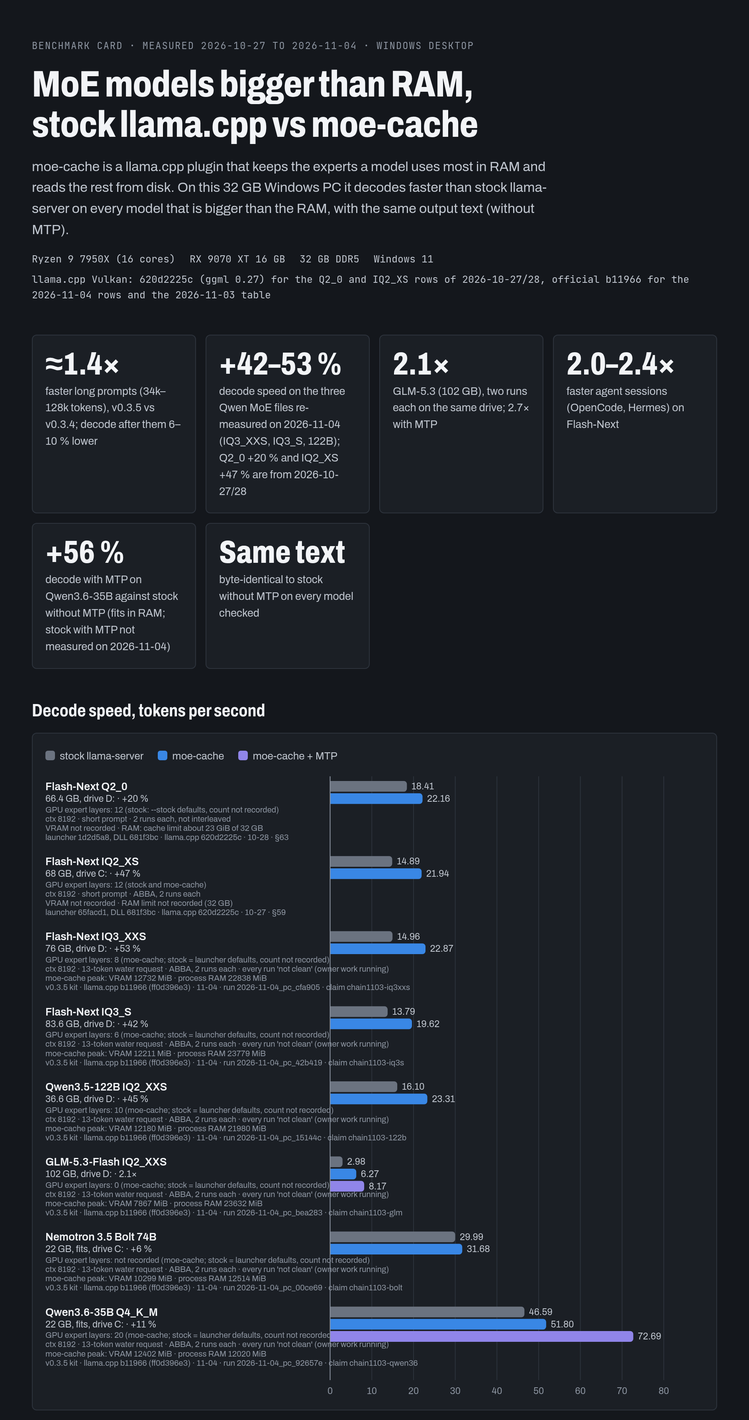
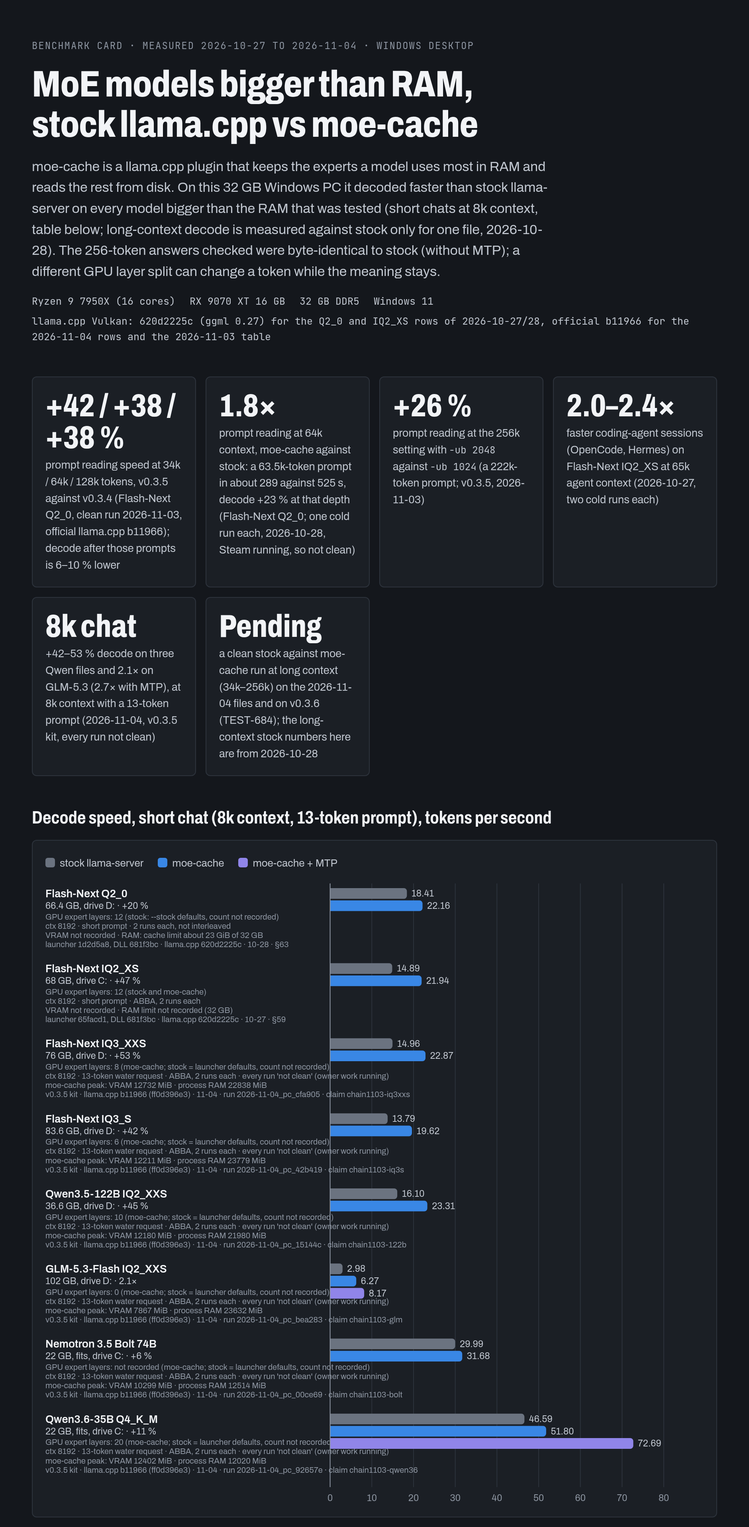
WINDOWS-688: --ram is a sizing hint, not a RAM cap (README, WINDOWS.md, CONFIGURATION.md, --ram help, mc_common.inl comment); PREFILL-172: GPU_CATCH is Vulkan only; card: context and prompt length on every decode row, long-context headline tiles, 8k chat labelled, clean long-context run pending (TES

diff --git a/docs/benchmark_card.html b/docs/benchmark_card.html
@@ -72,7 +72,7 @@ footer { color: var(--ink-3); font-size: 13px; border-top: 1px solid var(--rule)
   <header>
     <div class="eyebrow">Benchmark card · measured 2026-10-27 to 2026-11-04 · Windows desktop</div>
     <h1>MoE models bigger than RAM, stock llama.cpp vs moe-cache</h1>
-    <p class="lede">moe-cache is a llama.cpp plugin that keeps the experts a model uses most in RAM and reads the rest from disk. On this 32 GB Windows PC it decodes faster than stock llama-server on every model that is bigger than the RAM, with the same output text (without MTP).</p>
+    <p class="lede">moe-cache is a llama.cpp plugin that keeps the experts a model uses most in RAM and reads the rest from disk. On this 32 GB Windows PC it decoded faster than stock llama-server on every model bigger than the RAM that was tested (short chats at 8k context, table below; long-context decode is measured against stock only for one file, 2026-10-28). The 256-token answers checked were byte-identical to stock (without MTP); a different GPU layer split can change a token while the meaning stays.</p>
     <div class="machine">
       <span>Ryzen 9 7950X (16 cores)</span><span>RX 9070 XT 16 GB</span><span>32 GB DDR5</span><span>Windows 11</span><span>llama.cpp Vulkan: 620d2225c (ggml 0.27) for the Q2_0 and IQ2_XS rows of 2026-10-27/28, official b11966 for the 2026-11-04 rows and the 2026-11-03 table</span>
     </div>
@@ -80,17 +80,17 @@ footer { color: var(--ink-3); font-size: 13px; border-top: 1px solid var(--rule)
 
   <section aria-label="Headline numbers">
     <div class="tiles">
-      <div class="tile"><b>≈1.4×</b><span>faster long prompts (34k–128k tokens), v0.3.5 vs v0.3.4; decode after them 6–10 % lower</span></div>
-      <div class="tile"><b>+42–53 %</b><span>decode speed on the three Qwen MoE files re-measured on 2026-11-04 (IQ3_XXS, IQ3_S, 122B); Q2_0 +20 % and IQ2_XS +47 % are from 2026-10-27/28 <!-- claim:chain1103-iq3xxs --><!-- claim:chain1103-iq3s --><!-- claim:chain1103-122b --></span></div>
-      <div class="tile"><b>2.1×</b><span>GLM-5.3 (102 GB), two runs each on the same drive; 2.7× with MTP <!-- claim:chain1103-glm --></span></div>
-      <div class="tile"><b>2.0–2.4×</b><span>faster agent sessions (OpenCode, Hermes) on Flash-Next</span></div>
-      <div class="tile"><b>+56 %</b><span>decode with MTP on Qwen3.6-35B against stock without MTP (fits in RAM; stock with MTP not measured on 2026-11-04) <!-- claim:chain1103-qwen36 --></span></div>
-      <div class="tile"><b>Same text</b><span>byte-identical to stock without MTP on every model checked</span></div>
+      <div class="tile"><b>+42 / +38 / +38 %</b><span>prompt reading speed at 34k / 64k / 128k tokens, v0.3.5 against v0.3.4 (Flash-Next Q2_0, clean run 2026-11-03, official llama.cpp b11966); decode after those prompts is 6–10 % lower <!-- claim:v035-vs-v034-34k --><!-- claim:v035-vs-v034-64k --><!-- claim:v035-vs-v034-128k --></span></div>
+      <div class="tile"><b>1.8×</b><span>prompt reading at 64k context, moe-cache against stock: a 63.5k-token prompt in about 289 against 525 s, decode +23 % at that depth (Flash-Next Q2_0; one cold run each, 2026-10-28, Steam running, so not clean)</span></div>
+      <div class="tile"><b>+26 %</b><span>prompt reading at the 256k setting with <code>-ub 2048</code> against <code>-ub 1024</code> (a 222k-token prompt; v0.3.5, 2026-11-03) <!-- claim:v035-ub2048-256k --></span></div>
+      <div class="tile"><b>2.0–2.4×</b><span>faster coding-agent sessions (OpenCode, Hermes) on Flash-Next IQ2_XS at 65k agent context (2026-10-27, two cold runs each)</span></div>
+      <div class="tile"><b>8k chat</b><span>+42–53 % decode on three Qwen files and 2.1× on GLM-5.3 (2.7× with MTP), at 8k context with a 13-token prompt (2026-11-04, v0.3.5 kit, every run not clean) <!-- claim:chain1103-iq3xxs --><!-- claim:chain1103-iq3s --><!-- claim:chain1103-122b --><!-- claim:chain1103-glm --></span></div>
+      <div class="tile"><b>Pending</b><span>a clean stock against moe-cache run at long context (34k–256k) on the 2026-11-04 files and on v0.3.6 (TEST-684); the long-context stock numbers here are from 2026-10-28</span></div>
     </div>
   </section>
 
   <section>
-    <h2>Decode speed, tokens per second</h2>
+    <h2>Decode speed, short chat (8k context, 13-token prompt), tokens per second</h2>
     <div class="chart" id="chart">
       <div class="legend">
         <span><i style="background:var(--stock)"></i>stock llama-server</span>
@@ -102,18 +102,18 @@ footer { color: var(--ink-3); font-size: 13px; border-top: 1px solid var(--rule)
     </div>
     <div class="scroll">
       <table>
-        <thead><tr><th>Model (file size)</th><th class="n">GPU expert layers</th><th class="n">stock</th><th class="n">moe-cache</th><th class="n">change</th></tr></thead>
+        <thead><tr><th>Model (file size)</th><th>Context, prompt</th><th class="n">GPU expert layers</th><th class="n">stock</th><th class="n">moe-cache</th><th class="n">change</th></tr></thead>
         <tbody>
-          <tr><td><b>Flash-Next Q2_0</b> (the faster file)<span class="sub">66.4 GB, drive D:, two runs each, not interleaved; stock = launcher <code>--stock</code> defaults</span></td><td class="n">12 (moe-cache)</td><td class="n">18.41</td><td class="n">22.16</td><td class="n up">+20 %</td></tr>
-          <tr><td>Qwen3-Next “Flash-Next” IQ2_XS<span class="sub">68 GB, drive C:</span></td><td class="n">12</td><td class="n">14.89</td><td class="n">21.94</td><td class="n up">+47 %</td></tr>
-          <tr><td>Flash-Next IQ3_XXS<span class="sub">76 GB, drive D:, 2026-11-04, v0.3.5 kit, two runs each (replaces 15.14 vs 19.86 of 2026-10-27)</span></td><td class="n">8</td><td class="n">14.96</td><td class="n">22.87</td><td class="n up">+53 %</td></tr><!-- claim:chain1103-iq3xxs -->
-          <tr><td>Flash-Next IQ3_S<span class="sub">83.6 GB, drive D:, 2026-11-04 (replaces 12.92 vs 17.28 of 2026-10-27)</span></td><td class="n">6</td><td class="n">13.79</td><td class="n">19.62</td><td class="n up">+42 %</td></tr><!-- claim:chain1103-iq3s -->
-          <tr><td>Qwen3.5-122B UD-IQ2_XXS<span class="sub">36.6 GB, drive D:, 2026-11-04 (replaces 15.95 vs 19.73 of 2026-10-28)</span></td><td class="n">10</td><td class="n">16.10</td><td class="n">23.31</td><td class="n up">+45 %</td></tr><!-- claim:chain1103-122b -->
-          <tr><td>GLM-5.3-Flash UD-IQ2_XXS<span class="sub">102 GB, drive D:, two runs each, ABBA, 2026-11-04 (replaces the single pair 2.21 vs 4.44 of 2026-10-27)</span></td><td class="n">0</td><td class="n">2.98</td><td class="n">6.27</td><td class="n up">2.1×</td></tr><!-- claim:chain1103-glm -->
-          <tr><td>GLM-5.3-Flash, moe-cache with <code>--mtp</code><span class="sub">two runs; stock without MTP is the other side (replaces the single run 6.92)</span></td><td class="n">0</td><td class="n">2.98</td><td class="n">8.17</td><td class="n up">2.7×</td></tr><!-- claim:chain1103-glm -->
-          <tr><td>Nemotron 3.5 Bolt 74B-A9B<span class="sub">22.0 GB, drive C:, <b>fits in RAM</b>: the launcher runs stock for it; moe-cache forced here to compare (two runs each, 2026-11-04; the single runs of 2026-10-28 gave −18 %)</span></td><td class="n">–</td><td class="n">29.99</td><td class="n">31.68</td><td class="n up">+6 %</td></tr><!-- claim:chain1103-bolt -->
-          <tr><td>Qwen3.6-35B-A3B Q4_K_M<span class="sub">22 GB, drive C:, <b>fits in RAM</b>: the launcher runs stock for it; moe-cache forced (two runs each, 2026-11-04; 2026-10-27 gave −1 %)</span></td><td class="n">–</td><td class="n">46.59</td><td class="n">51.80</td><td class="n up">+11 %</td></tr><!-- claim:chain1103-qwen36 -->
-          <tr><td>Qwen3.6-35B, moe-cache with MTP<span class="sub">against stock without MTP; stock with MTP was not measured on 2026-11-04 (68.6 on 2026-10-27)</span></td><td class="n">–</td><td class="n">46.59</td><td class="n">72.69</td><td class="n up">+56 %</td></tr><!-- claim:chain1103-qwen36 -->
+          <tr><td><b>Flash-Next Q2_0</b> (the faster file)<span class="sub">66.4 GB, drive D:, two runs each, not interleaved; stock = launcher <code>--stock</code> defaults</span></td><td>8192, short prompt (length not recorded)</td><td class="n">12 (moe-cache)</td><td class="n">18.41</td><td class="n">22.16</td><td class="n up">+20 %</td></tr>
+          <tr><td>Qwen3-Next “Flash-Next” IQ2_XS<span class="sub">68 GB, drive C:</span></td><td>8192, short prompt (length not recorded)</td><td class="n">12</td><td class="n">14.89</td><td class="n">21.94</td><td class="n up">+47 %</td></tr>
+          <tr><td>Flash-Next IQ3_XXS<span class="sub">76 GB, drive D:, 2026-11-04, v0.3.5 kit, two runs each (replaces 15.14 vs 19.86 of 2026-10-27)</span></td><td>8192, 13 tokens</td><td class="n">8</td><td class="n">14.96</td><td class="n">22.87</td><td class="n up">+53 %</td></tr><!-- claim:chain1103-iq3xxs -->
+          <tr><td>Flash-Next IQ3_S<span class="sub">83.6 GB, drive D:, 2026-11-04 (replaces 12.92 vs 17.28 of 2026-10-27)</span></td><td>8192, 13 tokens</td><td class="n">6</td><td class="n">13.79</td><td class="n">19.62</td><td class="n up">+42 %</td></tr><!-- claim:chain1103-iq3s -->
+          <tr><td>Qwen3.5-122B UD-IQ2_XXS<span class="sub">36.6 GB, drive D:, 2026-11-04 (replaces 15.95 vs 19.73 of 2026-10-28)</span></td><td>8192, 13 tokens</td><td class="n">10</td><td class="n">16.10</td><td class="n">23.31</td><td class="n up">+45 %</td></tr><!-- claim:chain1103-122b -->
+          <tr><td>GLM-5.3-Flash UD-IQ2_XXS<span class="sub">102 GB, drive D:, two runs each, ABBA, 2026-11-04 (replaces the single pair 2.21 vs 4.44 of 2026-10-27)</span></td><td>8192, 13 tokens</td><td class="n">0</td><td class="n">2.98</td><td class="n">6.27</td><td class="n up">2.1×</td></tr><!-- claim:chain1103-glm -->
+          <tr><td>GLM-5.3-Flash, moe-cache with <code>--mtp</code><span class="sub">two runs; stock without MTP is the other side (replaces the single run 6.92)</span></td><td>8192, 13 tokens</td><td class="n">0</td><td class="n">2.98</td><td class="n">8.17</td><td class="n up">2.7×</td></tr><!-- claim:chain1103-glm -->
+          <tr><td>Nemotron 3.5 Bolt 74B-A9B<span class="sub">22.0 GB, drive C:, <b>fits in RAM</b>: the launcher runs stock for it; moe-cache forced here to compare (two runs each, 2026-11-04; the single runs of 2026-10-28 gave −18 %)</span></td><td>8192, 13 tokens</td><td class="n">–</td><td class="n">29.99</td><td class="n">31.68</td><td class="n up">+6 %</td></tr><!-- claim:chain1103-bolt -->
+          <tr><td>Qwen3.6-35B-A3B Q4_K_M<span class="sub">22 GB, drive C:, <b>fits in RAM</b>: the launcher runs stock for it; moe-cache forced (two runs each, 2026-11-04; 2026-10-27 gave −1 %)</span></td><td>8192, 13 tokens</td><td class="n">–</td><td class="n">46.59</td><td class="n">51.80</td><td class="n up">+11 %</td></tr><!-- claim:chain1103-qwen36 -->
+          <tr><td>Qwen3.6-35B, moe-cache with MTP<span class="sub">against stock without MTP; stock with MTP was not measured on 2026-11-04 (68.6 on 2026-10-27)</span></td><td>8192, 13 tokens</td><td class="n">–</td><td class="n">46.59</td><td class="n">72.69</td><td class="n up">+56 %</td></tr><!-- claim:chain1103-qwen36 -->
         </tbody>
       </table>
     </div>

diff --git a/bin/moe_cache.py b/bin/moe_cache.py
@@ -1886,9 +1886,10 @@ SERVER_HELP = """\
            lines say which of these were applied. Smoother PC, slower model. MOE_CACHE_LEAVE_ROOM=1 turns it on for good
 --gpu-margin GiB  VRAM the tuner leaves free next to everything it places (default about 0.47 GiB = 0.5 GB; raise it if the GPU runs out of memory with a large -ub)
 --ub auto|N  micro-batch size (prompt speed: 512 -> 2048 was +58 % at a 6k prompt). auto = the largest that fits next to the KV cache of --ctx
---ram GB   memory the server may use (default: the cgroup limit or free RAM). The cache sizes itself to stay below it. On Windows it is also set as a
-           job memory limit on llama-server only with MOE_CACHE_WIN_VIEW=0 (with the default file-view cache the experts use no commit and a job limit
-           would only cap llama.cpp's GPU memory, which Windows commits)
+--ram GB   memory the cache and the layer plan are sized to (default: the cgroup limit or free RAM). A sizing hint, NOT a RAM cap: the launcher sets no
+           limit on Linux (only a cgroup you set yourself is a hard limit). On Windows a job memory limit is set only for the plugin, only with --ram and
+           only with MOE_CACHE_WIN_VIEW=0; the default file-view cache, the on-demand listener and stock llama-server get none (a job limit counts GPU
+           memory too and broke Vulkan), so the server can use more RAM than --ram says
 --max-ram GB  hard cap on the whole server's memory (default: physical RAM minus max(4 GiB, 12.5 %), = 28 GiB on a 32 GiB machine; 0 = none).
            Same rule on Linux and Windows; --ram and the free-memory logic stay below it (MOE_CACHE_MAX_RAM_GB does the same)
            The cap is kept by planning (cache budget, layer plan), never by stopping a running server (owner's rule)

diff --git a/README.md b/README.md
@@ -15,7 +15,7 @@ A plugin for an unmodified <code>llama-server</code>. No fork, no patch.</p>
 
 ## What it is
 
-**moe-cache lets a normal PC run big Mixture-of-Experts AI models** (files of 60-120 GB) that are bigger than its RAM, with the **same answers as plain llama.cpp**: token-identical below 128k context with the same layer split; from 128k context a q8_0 KV cache is used (`--exact` keeps f16), MTP and the `--fast` modes can change answers; see [EXACTNESS](docs/EXACTNESS.md). Chat in your browser, or connect coding tools (OpenCode, Hermes, Claude Code). Windows 11 and Linux. Free (MIT), no account.
+**moe-cache lets a normal PC run big Mixture-of-Experts AI models** (files of 60-120 GB) that are bigger than its RAM, with the **same answers as plain llama.cpp** in the checks we ran (greedy decoding, the same GPU/CPU layer split, same llama.cpp build, context below 128k; the exact list is in [EXACTNESS](docs/EXACTNESS.md)). A different GPU layer split, or experts computed on the GPU instead of the CPU, can change a token (slightly different floating-point sums) while the meaning stays; from 128k context a q8_0 KV cache is used (`--exact` keeps f16), and MTP and the `--fast` modes can change answers. Chat in your browser, or connect coding tools (OpenCode, Hermes, Claude Code). Windows 11 and Linux. Free (MIT), no account.
 
 MoE models (Qwen3, GLM, gpt-oss, DeepSeek) use only a few "experts" per token. When the file is bigger than your RAM, plain llama.cpp keeps reading the whole file from the disk and slows to a crawl; moe-cache keeps the experts the model actually uses in RAM and reads only the rest. If your model already fits in RAM, plain llama.cpp is as fast or faster, and moe-cache steps aside on its own ([when to use something else](docs/FAQ.md#when-to-use-something-else)).
 
@@ -119,7 +119,7 @@ The card below is the Windows desktop (Ryzen 9 7950X, RX 9070 XT 16 GB, 32 GB RA
 
 **Benchmark card · measured 2026-10-27 to 2026-11-04 · Windows desktop**
 
-moe-cache is a llama.cpp plugin that keeps the experts a model uses most in RAM and reads the rest from disk. On this 32 GB Windows PC it decodes faster than stock llama-server on every model that is bigger than the RAM, with the same output text (without MTP).
+moe-cache is a llama.cpp plugin that keeps the experts a model uses most in RAM and reads the rest from disk. On this 32 GB Windows PC it decoded faster than stock llama-server on every model bigger than the RAM that was tested (short chats at 8k context, table below; long-context decode is measured against stock only for one file, 2026-10-28). The 256-token answers checked were byte-identical to stock (without MTP); a different GPU layer split can change a token while the meaning stays.
 
 | Machine | |
 |---|---|
@@ -131,27 +131,27 @@ moe-cache is a llama.cpp plugin that keeps the experts a model uses most in RAM 
 
 | Headline | What it is |
 |---|---|
-| ≈1.4× | faster long prompts (34k–128k tokens), v0.3.5 vs v0.3.4; decode after them 6–10 % lower |
-| +42–53 % | decode speed on the three Qwen MoE files re-measured on 2026-11-04 (IQ3_XXS, IQ3_S, 122B); Q2_0 +20 % and IQ2_XS +47 % are from 2026-10-27/28 <!-- claim:chain1103-iq3xxs --><!-- claim:chain1103-iq3s --><!-- claim:chain1103-122b --> |
-| 2.1× | GLM-5.3 (102 GB), two runs each on the same drive; 2.7× with MTP <!-- claim:chain1103-glm --> |
-| 2.0–2.4× | faster agent sessions (OpenCode, Hermes) on Flash-Next |
-| +56 % | decode with MTP on Qwen3.6-35B against stock without MTP (fits in RAM; stock with MTP not measured on 2026-11-04) <!-- claim:chain1103-qwen36 --> |
-| Same text | byte-identical to stock without MTP on every model checked |
+| +42 / +38 / +38 % | prompt reading speed at 34k / 64k / 128k tokens, v0.3.5 against v0.3.4 (Flash-Next Q2_0, clean run 2026-11-03, official llama.cpp b11966); decode after those prompts is 6–10 % lower <!-- claim:v035-vs-v034-34k --><!-- claim:v035-vs-v034-64k --><!-- claim:v035-vs-v034-128k --> |
+| 1.8× | prompt reading at 64k context, moe-cache against stock: a 63.5k-token prompt in about 289 against 525 s, decode +23 % at that depth (Flash-Next Q2_0; one cold run each, 2026-10-28, Steam running, so not clean) |
+| +26 % | prompt reading at the 256k setting with `-ub 2048` against `-ub 1024` (a 222k-token prompt; v0.3.5, 2026-11-03) <!-- claim:v035-ub2048-256k --> |
+| 2.0–2.4× | faster coding-agent sessions (OpenCode, Hermes) on Flash-Next IQ2_XS at 65k agent context (2026-10-27, two cold runs each) |
+| 8k chat | +42–53 % decode on three Qwen files and 2.1× on GLM-5.3 (2.7× with MTP), at 8k context with a 13-token prompt (2026-11-04, v0.3.5 kit, every run not clean) <!-- claim:chain1103-iq3xxs --><!-- claim:chain1103-iq3s --><!-- claim:chain1103-122b --><!-- claim:chain1103-glm --> |
+| Pending | a clean stock against moe-cache run at long context (34k–256k) on the 2026-11-04 files and on v0.3.6 (TEST-684); the long-context stock numbers here are from 2026-10-28 |
 
-### Decode speed, tokens per second
+### Decode speed, short chat (8k context, 13-token prompt), tokens per second
 
-| Model (file size) | GPU expert layers | stock | moe-cache | change |
-|---|---|---|---|---|
-| **Flash-Next Q2_0** (the faster file)<br><sub>66.4 GB, drive D:, two runs each, not interleaved; stock = launcher `--stock` defaults</sub> | 12 (moe-cache) | 18.41 | 22.16 | +20 % |
-| Qwen3-Next “Flash-Next” IQ2_XS<br><sub>68 GB, drive C:</sub> | 12 | 14.89 | 21.94 | +47 % |
-| Flash-Next IQ3_XXS<br><sub>76 GB, drive D:, 2026-11-04, v0.3.5 kit, two runs each (replaces 15.14 vs 19.86 of 2026-10-27)</sub> | 8 | 14.96 | 22.87 | +53 % <!-- claim:chain1103-iq3xxs --> |
-| Flash-Next IQ3_S<br><sub>83.6 GB, drive D:, 2026-11-04 (replaces 12.92 vs 17.28 of 2026-10-27)</sub> | 6 | 13.79 | 19.62 | +42 % <!-- claim:chain1103-iq3s --> |
-| Qwen3.5-122B UD-IQ2_XXS<br><sub>36.6 GB, drive D:, 2026-11-04 (replaces 15.95 vs 19.73 of 2026-10-28)</sub> | 10 | 16.10 | 23.31 | +45 % <!-- claim:chain1103-122b --> |
-| GLM-5.3-Flash UD-IQ2_XXS<br><sub>102 GB, drive D:, two runs each, ABBA, 2026-11-04 (replaces the single pair 2.21 vs 4.44 of 2026-10-27)</sub> | 0 | 2.98 | 6.27 | 2.1× <!-- claim:chain1103-glm --> |
-| GLM-5.3-Flash, moe-cache with `--mtp`<br><sub>two runs; stock without MTP is the other side (replaces the single run 6.92)</sub> | 0 | 2.98 | 8.17 | 2.7× <!-- claim:chain1103-glm --> |
-| Nemotron 3.5 Bolt 74B-A9B<br><sub>22.0 GB, drive C:, **fits in RAM**: the launcher runs stock for it; moe-cache forced here to compare (two runs each, 2026-11-04; the single runs of 2026-10-28 gave −18 %)</sub> | – | 29.99 | 31.68 | +6 % <!-- claim:chain1103-bolt --> |
-| Qwen3.6-35B-A3B Q4_K_M<br><sub>22 GB, drive C:, **fits in RAM**: the launcher runs stock for it; moe-cache forced (two runs each, 2026-11-04; 2026-10-27 gave −1 %)</sub> | – | 46.59 | 51.80 | +11 % <!-- claim:chain1103-qwen36 --> |
-| Qwen3.6-35B, moe-cache with MTP<br><sub>against stock without MTP; stock with MTP was not measured on 2026-11-04 (68.6 on 2026-10-27)</sub> | – | 46.59 | 72.69 | +56 % <!-- claim:chain1103-qwen36 --> |
+| Model (file size) | Context, prompt | GPU expert layers | stock | moe-cache | change |
+|---|---|---|---|---|---|
+| **Flash-Next Q2_0** (the faster file)<br><sub>66.4 GB, drive D:, two runs each, not interleaved; stock = launcher `--stock` defaults</sub> | 8192, short prompt (length not recorded) | 12 (moe-cache) | 18.41 | 22.16 | +20 % |
+| Qwen3-Next “Flash-Next” IQ2_XS<br><sub>68 GB, drive C:</sub> | 8192, short prompt (length not recorded) | 12 | 14.89 | 21.94 | +47 % |
+| Flash-Next IQ3_XXS<br><sub>76 GB, drive D:, 2026-11-04, v0.3.5 kit, two runs each (replaces 15.14 vs 19.86 of 2026-10-27)</sub> | 8192, 13 tokens | 8 | 14.96 | 22.87 | +53 % <!-- claim:chain1103-iq3xxs --> |
+| Flash-Next IQ3_S<br><sub>83.6 GB, drive D:, 2026-11-04 (replaces 12.92 vs 17.28 of 2026-10-27)</sub> | 8192, 13 tokens | 6 | 13.79 | 19.62 | +42 % <!-- claim:chain1103-iq3s --> |
+| Qwen3.5-122B UD-IQ2_XXS<br><sub>36.6 GB, drive D:, 2026-11-04 (replaces 15.95 vs 19.73 of 2026-10-28)</sub> | 8192, 13 tokens | 10 | 16.10 | 23.31 | +45 % <!-- claim:chain1103-122b --> |
+| GLM-5.3-Flash UD-IQ2_XXS<br><sub>102 GB, drive D:, two runs each, ABBA, 2026-11-04 (replaces the single pair 2.21 vs 4.44 of 2026-10-27)</sub> | 8192, 13 tokens | 0 | 2.98 | 6.27 | 2.1× <!-- claim:chain1103-glm --> |
+| GLM-5.3-Flash, moe-cache with `--mtp`<br><sub>two runs; stock without MTP is the other side (replaces the single run 6.92)</sub> | 8192, 13 tokens | 0 | 2.98 | 8.17 | 2.7× <!-- claim:chain1103-glm --> |
+| Nemotron 3.5 Bolt 74B-A9B<br><sub>22.0 GB, drive C:, **fits in RAM**: the launcher runs stock for it; moe-cache forced here to compare (two runs each, 2026-11-04; the single runs of 2026-10-28 gave −18 %)</sub> | 8192, 13 tokens | – | 29.99 | 31.68 | +6 % <!-- claim:chain1103-bolt --> |
+| Qwen3.6-35B-A3B Q4_K_M<br><sub>22 GB, drive C:, **fits in RAM**: the launcher runs stock for it; moe-cache forced (two runs each, 2026-11-04; 2026-10-27 gave −1 %)</sub> | 8192, 13 tokens | – | 46.59 | 51.80 | +11 % <!-- claim:chain1103-qwen36 --> |
+| Qwen3.6-35B, moe-cache with MTP<br><sub>against stock without MTP; stock with MTP was not measured on 2026-11-04 (68.6 on 2026-10-27)</sub> | 8192, 13 tokens | – | 46.59 | 72.69 | +56 % <!-- claim:chain1103-qwen36 --> |
 
 Each pair is two cold runs in the order stock, moe-cache, moe-cache, stock (ABBA), and the table shows the means. Every model here is bigger than the free RAM once the GPU and Windows have taken their share, except the two marked “fits in RAM”. **Dates and builds:** the rows for IQ3_XXS, IQ3_S, Qwen3.5-122B, GLM-5.3 and the two models that fit were re-measured on 2026-11-04 (overnight chain, the released v0.3.5 kit with the official llama.cpp b11966, launcher defaults, context 8192, a 13-token request, two runs each; every run was “not clean”: owner work was running on the PC). The rows for Q2_0 and IQ2_XS are from 2026-10-27/28 (llama.cpp 620d2225c, RESULTS 58–65) and were not re-run; later changes (128-row executor chunks, +3.9 % on Q2_0; async reads, +12 %, RESULTS 67) are in the 2026-11-04 rows but not in those two. The chart and its detail lines use the same numbers. These rows describe the v0.3.5 kit; the current pin is b12064, so a paired re-run is still open. Q2_0: stock decodes it much faster than IQ2_XS (18.4 vs 14.9), so the plugin’s decode gain there is +20 % (code request +13 %); its prompt gain is 2.33× (3k-token prompt 120.8 vs 281 tok/s), which is what agent sessions wait on (RESULTS 63).
 
@@ -335,7 +335,7 @@ powershell -NoProfile -ExecutionPolicy Bypass -File tools\agent_bench_pair.ps1 -
 
 On Linux (older laptop runs, v0.2.x) the gains were 2.4x to 5.2x: [docs/RESULTS_OLD_LAPTOP.md](docs/RESULTS_OLD_LAPTOP.md).
 
-**What to expect by memory budget** (decode tok/s, `--ram` = the memory the server may use; only numbers we measured, one cold run each, "not measured" where we have none):
+**What to expect by memory budget** (decode tok/s, `--ram` = the memory the cache is sized to (a sizing hint, **not a RAM cap**: on Windows the default path sets no memory limit, so the server can use more than the number you give; on Linux the launcher sets none either; see [docs/WINDOWS.md](docs/WINDOWS.md)); only numbers we measured, one cold run each, "not measured" where we have none):
 
 | `--ram` | Windows desktop, Flash-Next IQ2_XS (68 GB), 16 GB GPU | Linux laptop, Qwen3-Next-80B (48.5 GB), about 2.6 GB GPU use |
 |---|---|---|
@@ -358,6 +358,11 @@ Everything, with methods and caveats: [docs/RESULTS.md](docs/RESULTS.md) (Window
 | Windows tested on one desktop | Ryzen 9 7950X + RX 9070 XT 16 GB + 32 GB, Windows 11, Vulkan, plus a GitHub Windows runner (CPU). NVIDIA, Intel GPUs and Windows 10 are untested; HIP loads but is slower than Vulkan |
 | Models measured | Qwen3.8-Flash-Next (Q2_0, IQ2_XS, IQ3_XXS, IQ3_S, Coder IQ1_M), Qwen3.5-122B IQ2_XXS, GLM-5.3-Flash, Qwen3.6-35B, Nemotron 3.5 Bolt 74B (agent speed; plugin forced slower than stock in one test), Granite 1B (CI). Other MoE models should work but are not measured. Long context (64k-256k) is measured on Flash-Next and a few more, single runs |
 | Linux | Tested on Intel + NVIDIA, CPU-only, Vulkan, and a user's RX 9070 XT. `install.sh` has been tried on Arch (`--no-apt`) and, for this release, from a clean clone on that machine; a fresh Ubuntu/Debian run with apt is not tested. macOS: no |
+| `--ram` is a sizing hint | On Windows the memory limit is set only for the plugin, only with `--ram`, and only with `MOE_CACHE_WIN_VIEW=0`; the default file-view cache, the on-demand listener and stock llama-server get none (a job limit counts GPU memory and broke Vulkan). The server can use more RAM than `--ram` says. On Linux the launcher sets no limit either; only a cgroup you set yourself is a hard limit. No guard is being built |
+| Crash on a truncated or unreadable model file | a model file that is cut short or cannot be read can still crash the server instead of giving a clear error (CACHE-685, being fixed) |
+| Installer attestation is skipped without `gh` | `install.sh` checks the build attestation only when the GitHub CLI (`gh`) is installed and logged in; without it only the SHA256 file is checked, which catches a damaged download but not a tampered release (RELEASE-686) |
+| GPU errors | with Vulkan a GPU error inside an expert block is caught and the block runs on the CPU (`MOE_CACHE_GPU_CATCH`, not yet seen with a real failure); on NVIDIA / CUDA a GPU error still ends the server |
+| Context length of the speed numbers | the 2026-11-04 decode numbers are short chats (8k context, 13-token prompt). Long-context (34k-256k) stock-against-moe-cache numbers are from 2026-10-28 (one file, one cold run) and the v0.3.5 against v0.3.4 comparison; a clean long-context stock run on the newest files is pending (TEST-684) |
 | Not tested for this release | `winget install` and `scoop install` (manifests exist but are not submitted); Hermes Desktop and OpenCode Desktop on Windows (click-through still open); a full model run from the final zip |
 | Decode after long prompts | 6-10 % slower than v0.3.4 after a 34k-64k prompt (the bigger prompt chunk leaves 2 fewer expert layers on the GPU); prompts are about 1.4x faster. A later release aims to give that GPU memory back after the prompt |
 | Speed numbers | One PC, cold runs, mostly single series; yours depends on RAM, SSD and GPU. The Linux table is older (v0.2.3.5) |

diff --git a/docs/CONFIGURATION.md b/docs/CONFIGURATION.md
@@ -8,7 +8,7 @@
 | Variable | Meaning |
 |---|---|
 | `MOE_CACHE_SIZE_GIB` | cache size in GiB, or `auto` (size from the memory limit) |
-| `MOE_CACHE_RAM_GIB`, `MOE_CACHE_MARGIN_GIB` | override the detected memory limit; memory to keep free (default 1 GiB) |
+| `MOE_CACHE_RAM_GIB`, `MOE_CACHE_MARGIN_GIB` | override the detected memory limit; memory to keep free (default 1 GiB). The launcher's `--ram` sets `MOE_CACHE_RAM_GIB`: **it is a sizing hint for the cache, not a RAM cap** (Windows: no limit is set on the default path, see [WINDOWS.md](WINDOWS.md); Linux: the launcher sets no limit either, only a cgroup you set yourself, such as `systemd-run -p MemoryMax=` or a unit file, is a hard limit) |
 | `MOE_CACHE_GGUF` | model file (split models: the first part) |
 | `MOE_CACHE_PROFILE` / `MOE_CACHE_WARM` | learn expert usage here and warm-start from it / warm start only |
 | `MOE_CACHE_STATS=1` | print hit rate, reads and evictions at exit |
@@ -71,7 +71,7 @@ The table above is the short list. This part covers the remaining `MOE_CACHE_*` 
 | `MOE_CACHE_FIT_PARAMS` | Path to the `llama-fit-params` tool the planner uses to ask llama.cpp how much GPU memory it will reserve. Used if the file exists. | unset (looks next to llama-server, then on PATH) | advanced |
 | `MOE_CACHE_GPU_BALANCE` | Experimental: when expert weights are split across GPU parts, hands out experts so each part gets a similar number of picks, not just a similar number of experts. `1`, `on`, `true` or `yes` turn it on. | off | internal/testing |
 | `MOE_CACHE_GPU_BUCKET` | Experimental: rounds the GPU expert buffer size up to a multiple of N experts, so more blocks reuse the same graph shape (meant for use with `MOE_CACHE_GPU_TMPL`). Values below 1 count as 1. | off (1, no rounding) | internal/testing |
-| `MOE_CACHE_GPU_CATCH` | Safety net: if the GPU fails during an expert block (for example an allocation fails), the block runs on the CPU instead of the program crashing. `0`/`off`/`false`/`no` turn it off. `2` throws a fake fault once, for tests. | on | internal/testing After a fallback the experts, and with `MOE_CACHE_GPU_SUM` (default on) also the router-weight multiply and the add of the experts, run on the CPU; stock and a run that never uses the GPU block do those two steps on the GPU, so the text can differ in later words from such a run (laptop test, Granite 1B, 4 of 4 prompts) and equals it with `MOE_CACHE_GPU_SUM=0`. Both are correct arithmetic. |
+| `MOE_CACHE_GPU_CATCH` | Safety net, **Vulkan only**: if the GPU throws during an expert block (for example an allocation fails), the error is caught and the block runs on the CPU. On NVIDIA / CUDA a GPU error still ends the server: CUDA errors go to `GGML_ABORT` and `abort()` (llama.cpp b12064, `ggml-cuda.cu`), which no C++ catch stops. It has not yet met a real Vulkan failure (tested with `MOE_CACHE_GPU_CATCH=2`, a fake fault). After a lost device llama.cpp's own GPU layers fail too, outside this code. `0`/`off`/`false`/`no` turn it off. `2` throws a fake fault once, for tests. | on | internal/testing After a fallback the experts, and with `MOE_CACHE_GPU_SUM` (default on) also the router-weight multiply and the add of the experts, run on the CPU; stock and a run that never uses the GPU block do those two steps on the GPU, so the text can differ in later words from such a run (laptop test, Granite 1B, 4 of 4 prompts) and equals it with `MOE_CACHE_GPU_SUM=0`. Both are correct arithmetic. |
 | `MOE_CACHE_GPU_FREE_AFTER_PROMPT` | Off by default. `1` gives the long-prompt block's GPU buffer back (up to about one layer of experts) as soon as the prompt is over, so decoding and other programs have that video memory. The next long prompt allocates it again. |
 | `MOE_CACHE_GPU_COMPACT` | Experimental: for a block split over GPU parts, each part computes only the rows whose expert it holds. Results may differ slightly in rounding, so check quality. `1`, `on`, `true` or `yes` turn it on. | off | internal/testing |
 | `MOE_CACHE_GPU_EVENTS` | Experimental: waits for the GPU result copy using an event instead of a full GPU synchronise. `1`, `on`, `true` or `yes` turn it on. | off | internal/testing |

diff --git a/docs/WINDOWS.md b/docs/WINDOWS.md
@@ -88,7 +88,7 @@ The control page shows these too: in the plan before you start ("Windows + AMD: 
 | Finds the discrete GPU (the planner only knew nvidia-smi and Linux sysfs): reads `llama-server --list-devices` and takes the adapter with the most dedicated VRAM in the registry | otherwise it saw no GPU and kept every expert layer on the CPU; `check` named the built-in iGPU |
 | At the first graph the plugin releases the model-file pages llama.cpp left in llama-server's working set (log: "released N GiB of model-file pages from the working set"); its own cache then lives in read-only views of the model file (file-view cache, no commit) | llama.cpp's Windows loader never unmaps the file pages of the GPU tensors, so ~13 GB stayed counted as in use with 12 GPU expert layers and the cache got that much less (RESULTS 56, I37). GPU expert layers are planned as on other GPUs |
 | Flash-Next (`qwen4exp`) on an AMD Vulkan GPU with a driver older than 32.0.32015.7029 (or an unknown version): `--ctx-checkpoints 0`, with a message | saving a context checkpoint of its recurrent state crashes AMD's Windows Vulkan driver (`amdvlk64.dll` 32.0.23034.4, access violation); stock llama-server crashes the same way, so it is not the plugin. Cost: a conversation cannot jump back to an earlier point (plain continuation still reuses the cache); this matters for agents. **Driver 32.0.32015.7029 (Adrenalin, 2026-10-27) does not crash** (stock llama-server, checkpoints on, chat answered, no crash in the event log), so from that version on the launcher leaves checkpoints on and says so; the launcher reads the version from the registry (`DriverVersion` of the chosen adapter) |
-| `--ram N` sizes the cache; a Windows job memory limit on llama-server only with `MOE_CACHE_WIN_VIEW=0` | a job limit caps commit, and Windows commits Vulkan's GPU memory: with the file-view cache (experts use no commit) it only capped llama.cpp's GPU memory and `--ram 16` failed to load. Without the limit `--ram 16` runs at 20.0 tok/s on Flash-Next IQ2_XS, 92 % of `--ram 24` (RESULTS 60) |
+| **`--ram N` is a sizing hint for the cache, not a RAM cap, on the default path.** It sets how big the cache and the layer plan may be. The Windows job memory limit is set only for the plugin, only with `--ram`, and only with `MOE_CACHE_WIN_VIEW=0` (the private-memory cache). The default file-view cache, the on-demand listener and stock llama-server get no limit, so the server can use more than N GB (for example while a long prompt runs or other programs take memory). No guard against that is built | a job limit caps commit, and Windows commits Vulkan's GPU memory: with the file-view cache (experts use no commit) it only capped llama.cpp's GPU memory and `--ram 16` failed to load. Without the limit `--ram 16` runs at 20.0 tok/s on Flash-Next IQ2_XS, 92 % of `--ram 24` (RESULTS 60) |
 | Pins threads to the performance cores of a hybrid CPU | none needed on the 7950X (`check` says "no hybrid cores: no pinning") |
 | The log line "commit ... failed (Windows error 487), committing page by page" | a handled case, not an error |
 
